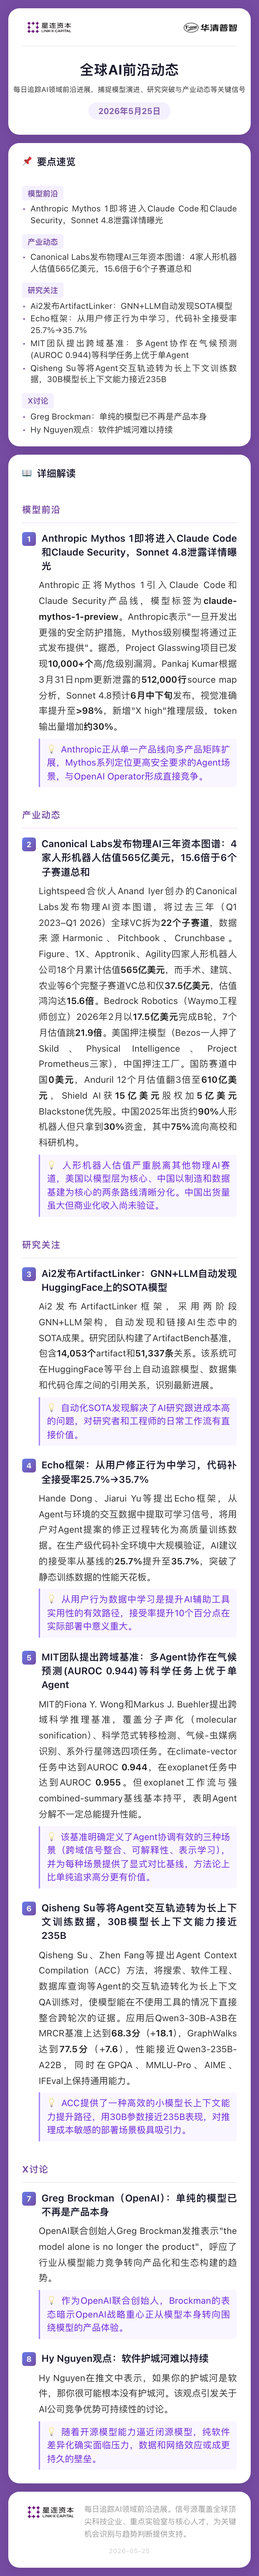
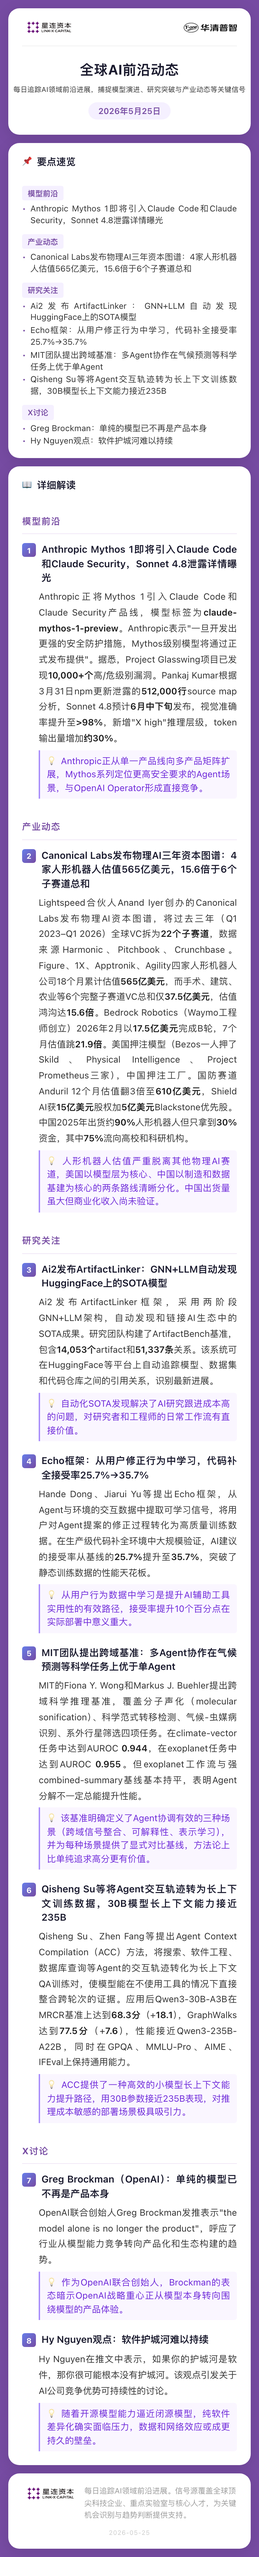
Update: 2026-05-25 title fix

diff --git a/daily-ai-news-2026-05-25.html b/daily-ai-news-2026-05-25.html
@@ -564,7 +564,7 @@
     <div class="page">
         <header class="header">
             <div class="header-date">2026-05-25</div>
-            <h1>Anthropic Mythos 1即将进入Claude Code和Claude Security，Sonnet 4.8泄露详情曝光</h1>
+            <h1>Anthropic Mythos 1即将引入Claude Code和Claude Security，Sonnet 4.8泄露详情曝光</h1>
             <div class="header-sub">8 stories, 24h window</div>
         </header>
 
@@ -573,7 +573,7 @@
                 <div class="sum-label">Briefing</div>
                 <div class="sum-cat">
                     <span class="sum-cat-name">模型前沿</span>
-                    <span class="sum-item">Anthropic Mythos 1即将进入Claude Code和Claude Security，Sonnet 4.8泄露详情曝光</span>
+                    <span class="sum-item">Anthropic Mythos 1即将引入Claude Code和Claude Security，Sonnet 4.8泄露详情曝光</span>
                 </div>
                 <div class="sum-cat">
                     <span class="sum-cat-name">产业动态</span>
@@ -581,9 +581,9 @@
                 </div>
                 <div class="sum-cat">
                     <span class="sum-cat-name">研究关注</span>
-                    <span class="sum-item">Ai2发布ArtifactLinker：GNN+LLM自动发现SOTA模型</span>
+                    <span class="sum-item">Ai2发布ArtifactLinker：GNN+LLM自动发现HuggingFace上的SOTA模型</span>
                     <span class="sum-item">Echo框架：从用户修正行为中学习，代码补全接受率25.7%→35.7%</span>
-                    <span class="sum-item">MIT团队提出跨域基准：多Agent协作在气候预测(AUROC 0.944)等科学任务上优于单Agent</span>
+                    <span class="sum-item">MIT团队提出跨域基准：多Agent协作在气候预测等科学任务上优于单Agent</span>
                     <span class="sum-item">Qisheng Su等将Agent交互轨迹转为长上下文训练数据，30B模型长上下文能力接近235B</span>
                 </div>
                 <div class="sum-cat">
@@ -604,7 +604,7 @@
                 <span class="nav-count">1</span>
             </summary>
             <div class="nav-articles">
-                <a href="#c-模型前沿-0" class="nav-item">Anthropic Mythos 1即将进入Claude Code和Cl…</a>
+                <a href="#c-模型前沿-0" class="nav-item">Anthropic Mythos 1即将引入Claude Code和Cl…</a>
             </div>
         </details>
         <details class="nav-details" open>
@@ -624,7 +624,7 @@
             <div class="nav-articles">
                 <a href="#c-研究关注-0" class="nav-item">Ai2发布ArtifactLinker：GNN+LLM自动发现Huggi…</a>
                 <a href="#c-研究关注-1" class="nav-item">Echo框架：从用户修正行为中学习，代码补全接受率25.7%→35.7%</a>
-                <a href="#c-研究关注-2" class="nav-item">MIT团队提出跨域基准：多Agent协作在气候预测(AUROC 0.94…</a>
+                <a href="#c-研究关注-2" class="nav-item">MIT团队提出跨域基准：多Agent协作在气候预测等科学任务上优于单Ag…</a>
                 <a href="#c-研究关注-3" class="nav-item">Qisheng Su等将Agent交互轨迹转为长上下文训练数据，30B模…</a>
             </div>
         </details>
@@ -646,7 +646,7 @@
         <section class="sec" id="s-模型前沿">
             <h2 class="sec-h">模型前沿</h2>
         <article class="card" id="c-模型前沿-0">
-            <h3 class="card-h"><span class="ent">Anthropic</span> Mythos 1即将进入<span class="ent">Claude Code</span>和<span class="ent">Claude</span> Security，Sonnet 4.8泄露详情曝光</h3>
+            <h3 class="card-h"><span class="ent">Anthropic</span> Mythos 1即将引入<span class="ent">Claude Code</span>和<span class="ent">Claude</span> Security，Sonnet 4.8泄露详情曝光</h3>
             <p class="card-body"><span class="ent">Anthropic</span>正将Mythos 1引入<span class="ent">Claude Code</span>和<span class="ent">Claude</span> Security产品线，模型标签为<strong>claude-mythos-1-preview</strong>。<span class="ent">Anthropic</span>表示"一旦开发出更强的安全防护措施，Mythos级别模型将通过正式发布提供"。据悉，Project Glasswing项目已发现<strong>10,000+个</strong>高/危级别漏洞。Pankaj Kumar根据3月31日npm更新泄露的<strong>512,000行</strong>source map分析，Sonnet 4.8预计<strong>6月中下旬</strong>发布，视觉准确率提升至<strong>>98%</strong>，新增"X high"推理层级，token输出量增加<strong>约30%</strong>。</p>
             <div class="card-note"><span class="note-label">Insight by AI</span> <span class="ent">Anthropic</span>正从单一产品线向多产品矩阵扩展，Mythos系列定位更高安全要求的Agent场景，与<span class="ent">OpenAI</span> Operator形成直接竞争。</div>
             <div class="card-src"><a href="https://www.testingcatalog.com/anthropic-prepares-mythos-1-for-claude-code-and-claude-security/" target="_blank">TestingCatalog</a> / <a href="https://x.com/pankajkumar_dev/status/2057832457655959664" target="_blank">@pankajkumar_dev</a> / <a href="https://mp.weixin.qq.com/s?__biz=MzI3MTA0MTk1MA==&mid=2652702564&idx=1&sn=a2f05d1fb8b85d44e89bdc336eafbcfa" target="_blank">新智元</a></div>
@@ -656,7 +656,7 @@
             <h2 class="sec-h">产业动态</h2>
         <article class="card" id="c-产业动态-0">
             <h3 class="card-h">Canonical Labs发布物理AI三年资本图谱：4家人形机器人估值565亿美元，15.6倍于6个子赛道总和</h3>
-            <p class="card-body">Lightspeed合伙人Anand Iyer创办的Canonical Labs发布物理AI资本图谱，将过去三年（Q1 2023–Q1 2026）全球VC拆为<strong>22个子赛道</strong>，数据来源Harmonic、Pitchbook、Crunchbase。Figure、1X、Apptronik、Agility四家人形机器人公司18个月累计估值<strong>565亿美元</strong>，而手术、建筑、农业等6个完整子赛道VC总和仅<strong>37.5亿美元</strong>，估值鸿沟达<strong>15.6倍</strong>。Bedrock Robotics（Waymo工程师创立）2026年2月以<strong>17.5亿美元</strong>完成B轮，7个月估值跳<strong>21.9倍</strong>。美国押注模型（Bezos一人押了Skild、Physical <span class="ent">Intel</span>ligence、Project Prometheus三家），中国押注工厂。国防赛道中国<strong>0美元</strong>，Anduril 12个月估值翻3倍至<strong>610亿美元</strong>，Shield AI获<strong>15亿美元</strong>股权加<strong>5亿美元</strong>Blackstone优先股。中国2025年出货约<strong>90%</strong>人形机器人但只拿到<strong>30%</strong>资金，其中<strong>75%</strong>流向高校和科研机构。</p>
+            <p class="card-body">Lightspeed合伙人Anand Iyer创办的Canonical Labs发布物理AI资本图谱，将过去三年（Q1 2023–Q1 2026）全球VC拆为<strong>22个子赛道</strong>，数据来源Harmonic、Pitchbook、Crunchbase。Figure、1X、Apptronik、Agility四家人形机器人公司18个月累计估值<strong>565亿美元</strong>，而手术、建筑、农业等6个完整子赛道VC总和仅<strong>37.5亿美元</strong>，估值鸿沟达<strong>15.6倍</strong>。Bedrock Robotics（Waymo工程师创立）2026年2月以<strong>17.5亿美元</strong>完成B轮，7个月估值跳<strong>21.9倍</strong>。美国押注模型（Bezos一人押了Skild、Physical <span class="ent">Intel</span>ligence、Project Prometheus三家），中国押注工厂。国防赛道Anduril 12个月估值翻3倍至<strong>610亿美元</strong>，Shield AI获<strong>15亿美元</strong>股权加<strong>5亿美元</strong>Blackstone优先股。中国2025年出货约<strong>90%</strong>人形机器人但只拿到<strong>30%</strong>资金，其中<strong>75%</strong>流向高校和科研机构。</p>
             <div class="card-note"><span class="note-label">Insight by AI</span> 人形机器人估值严重脱离其他物理AI赛道，美国以模型层为核心、中国以制造和数据基建为核心的两条路线清晰分化。中国出货量虽大但商业化收入尚未验证。</div>
             <div class="card-src"><a href="https://www.canonical.cc/physical-ai-robotics/" target="_blank">Canonical Labs</a> / <a href="http://mp.weixin.qq.com/s?__biz=MzA3NTIyODUzNA==&mid=2649797075&idx=1&sn=85688e79aa9892987d275ff8c9cdf09a&chksm=86d107ab79c2af38b569221f3626d754037fb8300c1f3e0d56358207ffd9d551686075f321bb&scene=0&xtrack=1#rd" target="_blank">DeepTech深科技</a></div>
         </article>
@@ -676,7 +676,7 @@
             <div class="card-src"><a href="https://arxiv.org/abs/2605.21984" target="_blank">arXiv</a></div>
         </article>
         <article class="card" id="c-研究关注-2">
-            <h3 class="card-h">MIT团队提出跨域基准：多Agent协作在气候预测(AUROC 0.944)等科学任务上优于单Agent</h3>
+            <h3 class="card-h">MIT团队提出跨域基准：多Agent协作在气候预测等科学任务上优于单Agent</h3>
             <p class="card-body">MIT的Fiona Y. Wong和Markus J. Buehler提出跨域科学推理基准，覆盖分子声化（molecular sonification）、科学范式转移检测、气候-虫媒病识别、系外行星筛选四项任务。在climate-vector任务中达到AUROC <strong>0.944</strong>，在exoplanet任务中达到AUROC <strong>0.955</strong>。但exoplanet工作流与强combined-summary基线基本持平，表明Agent分解不一定总能提升性能。</p>
             <div class="card-note"><span class="note-label">Insight by AI</span> 该基准明确定义了Agent协调有效的三种场景（跨域信号整合、可解释性、表示学习），并为每种场景提供了显式对比基线，方法论上比单纯追求高分更有价值。</div>
             <div class="card-src"><a href="https://arxiv.org/abs/2605.22300" target="_blank">arXiv</a></div>

diff --git a/index.html b/index.html
@@ -403,7 +403,7 @@
                 <div class="month-body" id="month-may">
         <a href="daily-ai-news-2026-05-25.html" class="timeline-entry" id="may-25">
             <div class="te-date">May 25 <span class="te-badge">最新</span></div>
-            <div class="te-summary"><strong>Anthropic Mythos 1即将进入Claude Code和Claude Security</strong>Sonnet 4.8泄露详情曝光；<strong>Canonical Labs发布物理AI三年资本图谱</strong>4家人形机器人估值565亿美元，15.6倍于6个子赛道总和；<strong>Ai2发布ArtifactLinker</strong>GNN+LLM自动发现HuggingFace上的SOTA模型；<strong>Echo框架</strong>从用户修正行为中学习，代码补全接受率25.7%→35.7%；<strong>MIT团队提出跨域基准</strong>多Agent协作在气候预测(AUROC 0.944)等科学任务上优于单Agent</div>
+            <div class="te-summary"><strong>Anthropic Mythos 1即将引入Claude Code和Claude Security</strong>Sonnet 4.8泄露详情曝光；<strong>Canonical Labs发布物理AI三年资本图谱</strong>4家人形机器人估值565亿美元，15.6倍于6个子赛道总和；<strong>Ai2发布ArtifactLinker</strong>GNN+LLM自动发现HuggingFace上的SOTA模型；<strong>Echo框架</strong>从用户修正行为中学习，代码补全接受率25.7%→35.7%；<strong>MIT团队提出跨域基准</strong>多Agent协作在气候预测等科学任务上优于单Agent</div>
             <div class="te-count">8 条动态</div>
         </a>
 

diff --git a/daily-ai-news-2026-05-25.md b/daily-ai-news-2026-05-25.md
@@ -6,9 +6,9 @@
 
 ## 要点汇总
 
-- 模型前沿：Anthropic Mythos 1即将进入Claude Code和Claude Security，Sonnet 4.8泄露详情曝光
+- 模型前沿：Anthropic Mythos 1即将引入Claude Code和Claude Security，Sonnet 4.8泄露详情曝光
 - 产业动态：Canonical Labs发布物理AI三年资本图谱：4家人形机器人估值565亿美元，15.6倍于6个子赛道总和
-- 研究关注：Ai2发布ArtifactLinker：GNN+LLM自动发现HuggingFace上的SOTA模型; Echo框架：从用户修正行为中学习，代码补全接受率25.7%→35.7%; MIT团队提出跨域基准：多Agent协作在气候预测(AUROC 0.944)等科学任务上优于单Agent; Qisheng Su等将Agent交互轨迹转为长上下文训练数据，30B模型长上下文能力接近235B
+- 研究关注：Ai2发布ArtifactLinker：GNN+LLM自动发现HuggingFace上的SOTA模型; Echo框架：从用户修正行为中学习，代码补全接受率25.7%→35.7%; MIT团队提出跨域基准：多Agent协作在气候预测等科学任务上优于单Agent; Qisheng Su等将Agent交互轨迹转为长上下文训练数据，30B模型长上下文能力接近235B
 - X讨论：Greg Brockman：单纯的模型已不再是产品本身; Hy Nguyen观点：软件护城河难以持续
 
 ---
@@ -16,14 +16,14 @@
 ## 📖 详细参考
 
 ### 模型前沿
-**Anthropic Mythos 1即将进入Claude Code和Claude Security，Sonnet 4.8泄露详情曝光**
+**Anthropic Mythos 1即将引入Claude Code和Claude Security，Sonnet 4.8泄露详情曝光**
 - Anthropic正将Mythos 1引入Claude Code和Claude Security产品线，模型标签为**claude-mythos-1-preview**。Anthropic表示"一旦开发出更强的安全防护措施，Mythos级别模型将通过正式发布提供"。据悉，Project Glasswing项目已发现**10,000+个**高/危级别漏洞。Pankaj Kumar根据3月31日npm更新泄露的**512,000行**source map分析，Sonnet 4.8预计**6月中下旬**发布，视觉准确率提升至**>98%**，新增"X high"推理层级，token输出量增加**约30%**。
   > 💡 Anthropic正从单一产品线向多产品矩阵扩展，Mythos系列定位更高安全要求的Agent场景，与OpenAI Operator形成直接竞争。
    - 来源: [TestingCatalog](https://www.testingcatalog.com/anthropic-prepares-mythos-1-for-claude-code-and-claude-security/) | [@pankajkumar_dev](https://x.com/pankajkumar_dev/status/2057832457655959664) | [新智元](https://mp.weixin.qq.com/s?__biz=MzI3MTA0MTk1MA==&mid=2652702564&idx=1&sn=a2f05d1fb8b85d44e89bdc336eafbcfa)
 
 ### 产业动态
 **Canonical Labs发布物理AI三年资本图谱：4家人形机器人估值565亿美元，15.6倍于6个子赛道总和**
-- Lightspeed合伙人Anand Iyer创办的Canonical Labs发布物理AI资本图谱，将过去三年（Q1 2023–Q1 2026）全球VC拆为**22个子赛道**，数据来源Harmonic、Pitchbook、Crunchbase。Figure、1X、Apptronik、Agility四家人形机器人公司18个月累计估值**565亿美元**，而手术、建筑、农业等6个完整子赛道VC总和仅**37.5亿美元**，估值鸿沟达**15.6倍**。Bedrock Robotics（Waymo工程师创立）2026年2月以**17.5亿美元**完成B轮，7个月估值跳**21.9倍**。美国押注模型（Bezos一人押了Skild、Physical Intelligence、Project Prometheus三家），中国押注工厂。国防赛道中国**0美元**，Anduril 12个月估值翻3倍至**610亿美元**，Shield AI获**15亿美元**股权加**5亿美元**Blackstone优先股。中国2025年出货约**90%**人形机器人但只拿到**30%**资金，其中**75%**流向高校和科研机构。
+- Lightspeed合伙人Anand Iyer创办的Canonical Labs发布物理AI资本图谱，将过去三年（Q1 2023–Q1 2026）全球VC拆为**22个子赛道**，数据来源Harmonic、Pitchbook、Crunchbase。Figure、1X、Apptronik、Agility四家人形机器人公司18个月累计估值**565亿美元**，而手术、建筑、农业等6个完整子赛道VC总和仅**37.5亿美元**，估值鸿沟达**15.6倍**。Bedrock Robotics（Waymo工程师创立）2026年2月以**17.5亿美元**完成B轮，7个月估值跳**21.9倍**。美国押注模型（Bezos一人押了Skild、Physical Intelligence、Project Prometheus三家），中国押注工厂。国防赛道Anduril 12个月估值翻3倍至**610亿美元**，Shield AI获**15亿美元**股权加**5亿美元**Blackstone优先股。中国2025年出货约**90%**人形机器人但只拿到**30%**资金，其中**75%**流向高校和科研机构。
   > 💡 人形机器人估值严重脱离其他物理AI赛道，美国以模型层为核心、中国以制造和数据基建为核心的两条路线清晰分化。中国出货量虽大但商业化收入尚未验证。
    - 来源: [Canonical Labs](https://www.canonical.cc/physical-ai-robotics/) | [DeepTech深科技](http://mp.weixin.qq.com/s?__biz=MzA3NTIyODUzNA==&mid=2649797075&idx=1&sn=85688e79aa9892987d275ff8c9cdf09a&chksm=86d107ab79c2af38b569221f3626d754037fb8300c1f3e0d56358207ffd9d551686075f321bb&scene=0&xtrack=1#rd)
 
@@ -38,7 +38,7 @@
   > 💡 从用户行为数据中学习是提升AI辅助工具实用性的有效路径，接受率提升10个百分点在实际部署中意义重大。
    - 来源: [arXiv](https://arxiv.org/abs/2605.21984)
 
-**MIT团队提出跨域基准：多Agent协作在气候预测(AUROC 0.944)等科学任务上优于单Agent**
+**MIT团队提出跨域基准：多Agent协作在气候预测等科学任务上优于单Agent**
 - MIT的Fiona Y. Wong和Markus J. Buehler提出跨域科学推理基准，覆盖分子声化（molecular sonification）、科学范式转移检测、气候-虫媒病识别、系外行星筛选四项任务。在climate-vector任务中达到AUROC **0.944**，在exoplanet任务中达到AUROC **0.955**。但exoplanet工作流与强combined-summary基线基本持平，表明Agent分解不一定总能提升性能。
   > 💡 该基准明确定义了Agent协调有效的三种场景（跨域信号整合、可解释性、表示学习），并为每种场景提供了显式对比基线，方法论上比单纯追求高分更有价值。
    - 来源: [arXiv](https://arxiv.org/abs/2605.22300)
